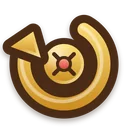
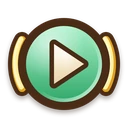
Grafik-Paket 7: Tausch, Ränge, Chat, Tafel und Erfolge (#82)
* Grafik-Paket 7 (Smettbo): Tausch/Ränge/Chat/Erfolge in grafik-staging/paket7, Einbau folgt

* Grafik-Paket 7: Tausch, Ränge, Chat, Tafel und Erfolge.

Die Kleinteile ersetzen die gezeichneten Symbole. Jede Erfolgskategorie hat ein eigenes Bild, und ein fehlendes Bild lässt die Liste stehen.

---------

diff --git a/src/adventure/view.ts b/src/adventure/view.ts
@@ -873,7 +873,7 @@ function codex(save: SaveV2, filter: CodexQuery, shell: ShellFlags): string {
     return `<button type="button" class="mon-card" data-act="dex" data-species="${mon.id}">
       ${face}
       <div>${hidden ? tr(save, 'codex.no', { n: speciesNumber(mon.id) }) : esc(mon.name)}</div>
-      <div class="muted">${dexStatusLabel(status)}${tradedOnly(save, mon.id) ? ` <svg class="trade-mark" data-art="codex/traded" viewBox="0 0 24 24" aria-label="${esc(tr(save, 'trade.traded'))}"><circle cx="12" cy="12" r="9" fill="#f0c14a"/><path d="M7 12h10M13 8l4 4-4 4" fill="none" stroke="#243044" stroke-width="2" stroke-linecap="round"/></svg>` : ''}</div>
+      <div class="muted">${dexStatusLabel(status)}${tradedOnly(save, mon.id) ? ` <img class="trade-mark" data-art="codex/traded" src="${art('codex/traded@2x.png')}" alt="${esc(tr(save, 'trade.traded'))}" title="${esc(tr(save, 'trade.traded'))}"/>` : ''}</div>
     </button>`
   }).join('')
   return `<div class="menu-screen">
@@ -1123,6 +1123,7 @@ function dailyCard(save: SaveV2): string {
   }).join('')
   return `<section class="card panel daily-card" data-art="daily/board">
     <h2>${tr(save, 'daily.title')}</h2>
+    <img class="daily-board" src="${art('daily/board@2x.png')}" alt=""/>
     <p class="muted">${tr(save, 'daily.note')}</p>
     <ul class="daily-tasks">${tasks || `<li class="muted">${tr(save, 'daily.wait')}</li>`}</ul>
     <h3>${tr(save, 'daily.calendar')}</h3>
@@ -1176,6 +1177,17 @@ function hortView(save: SaveV2, now: number, selected: string | null, wheel: Whe
   </div>`
 }
 
+function achieveArt(id: string): UiArtId {
+  if (id.startsWith('win-')) return 'achWins'
+  if (id.startsWith('catch-') || id.startsWith('shiny-')) return 'achFinds'
+  if (id.startsWith('dupe-')) return 'achCollect'
+  if (id.startsWith('badge-')) return 'achBadges'
+  if (id.startsWith('region-') || id.startsWith('master-')) return 'achRegion'
+  if (id.startsWith('type-')) return 'achTypes'
+  if (id.startsWith('dex-') || id.startsWith('seen-')) return 'achCodex'
+  return 'achCare'
+}
+
 function achievementsView(save: SaveV2): string {
   const done = save.claimed.length
   const rows = GOALS.map((goal) => {
@@ -1186,7 +1198,7 @@ function achievementsView(save: SaveV2): string {
     const title = goalTitle(L(save), goal.id, goal.title, typeBit)
     const mark = typeId ? typeIcon(typeId as TypeId) : ''
     return `<article class="list-row achieve ${have ? 'done' : ''}">
-      ${ui('achieve')}<div>${mark}<b>${esc(name)}</b><div class="muted">${have ? tr(save, 'ach.have', { title, frame: goal.frame }) : tr(save, 'ach.open')} · ${goal.gold.toLocaleString(L(save) === 'en' ? 'en' : 'de-DE')} G</div></div>
+      ${ui(achieveArt(goal.id))}<div>${mark}<b>${esc(name)}</b><div class="muted">${have ? tr(save, 'ach.have', { title, frame: goal.frame }) : tr(save, 'ach.open')} · ${goal.gold.toLocaleString(L(save) === 'en' ? 'en' : 'de-DE')} G</div></div>
       ${have ? `<div class="list-actions"><button type="button" data-act="equip-title" data-id="${goal.id}">${ui('equipTitle')}${tr(save, 'ach.titleBtn')}</button><button type="button" data-act="equip-frame" data-id="${goal.id}">${ui('equipFrame')}${tr(save, 'ach.frameBtn')}</button></div>` : ''}
     </article>`
   }).join('')
@@ -1400,8 +1412,8 @@ function guide(save: SaveV2): string {
 }
 
 function placeBadge(place: number): string {
-  const tone = place === 1 ? 'gold' : place === 2 ? 'silver' : place === 3 ? 'bronze' : 'plain'
-  return `<svg class="rank-badge ${tone}" viewBox="0 0 64 64" aria-hidden="true"><circle cx="32" cy="28" r="16"/><path d="M24 42l8 14 8-14"/><text x="32" y="33" text-anchor="middle">${place}</text></svg>`
+  if (place >= 1 && place <= 3) return `<img class="rank-badge" src="${art(`ranks/place-${place}@2x.png`)}" alt="${place}"/>`
+  return `<span class="rank-badge plain"><img src="${art('ranks/place-n@2x.png')}" alt=""/><b>${place}</b></span>`
 }
 
 function frameGlyph(id: string, on: boolean): string {
@@ -1716,7 +1728,7 @@ function tradeCard(card: TradeCard | null, save: SaveV2): string {
   return `<article class="trade-card">
     <b>${esc(card.name)}</b>
     <p>${tr(save, 'trade.rarity', { n: card.rarity })} · ${tr(save, 'trade.level', { n: card.level })}${card.shiny ? ` · ${tr(save, 'trade.shiny')}` : ''}</p>
-    ${card.reason ? `<p class="trade-lock"><svg data-art="trade/lock" viewBox="0 0 32 32" aria-hidden="true"><rect x="8" y="14" width="16" height="12" rx="4" fill="#f0c14a"/><path d="M11 14v-3a5 5 0 0 1 10 0v3" fill="none" stroke="#243044" stroke-width="2"/></svg> ${esc(card.reason)}</p>` : ''}
+    ${card.reason ? `<p class="trade-lock"><img data-art="trade/lock" src="${art('trade/lock@2x.png')}" alt=""/> ${esc(card.reason)}</p>` : ''}
   </article>`
 }
 
@@ -1731,8 +1743,8 @@ function tradeScreen(save: SaveV2, panel: TradePanel | undefined): string {
     <p class="muted">${tr(save, 'trade.lead')}</p>
     ${tradeCard(view.theirs, save)}
     <div class="trade-escrow" data-art="trade/escrow">
-      <svg viewBox="0 0 160 48" aria-hidden="true"><rect x="58" y="8" width="44" height="32" rx="16" fill="#1c2744"/><circle cx="40" cy="24" r="10" fill="#f0c14a"/><circle cx="120" cy="24" r="10" fill="#9ad7ff"/></svg>
-      ${view.phase === 'locked' ? `<p><svg data-art="trade/lock" viewBox="0 0 32 32" aria-hidden="true"><rect x="8" y="14" width="16" height="12" rx="4" fill="#f0c14a"/><path d="M11 14v-3a5 5 0 0 1 10 0v3" fill="none" stroke="#243044" stroke-width="2"/></svg> ${tr(save, 'trade.wait', { n: seconds })}</p>` : ''}
+      <img class="escrow-art" src="${art('trade/escrow@2x.png')}" alt=""/>
+      ${view.phase === 'locked' ? `<p><img data-art="trade/lock" src="${art('trade/lock@2x.png')}" alt=""/> ${tr(save, 'trade.wait', { n: seconds })}</p>` : ''}
     </div>
     ${tradeCard(view.mine, save)}
     <label class="friend-search">${tr(save, 'trade.code')}<input id="trade-code" maxlength="8"/></label>
@@ -1808,7 +1820,7 @@ function chatScreen(save: SaveV2, panel: ChatPanel | undefined): string {
       <button type="button" data-act="guild-phrase" data-id="hallo">${tr(save, 'guild.phrase')}</button>
     </div></div></div>`
   }
-  const lines = view.lines.map((line) => `<p class="chat-line"><b>${esc(line.label)}</b> ${esc(line.body)} <button type="button" data-act="chat-report" data-id="${esc(line.label)}">${tr(save, 'chat.report')}</button> <button type="button" data-act="chat-mute" data-id="${esc(line.label)}">${tr(save, 'chat.mute')}</button></p>`).join('')
+  const lines = view.lines.map((line) => `<p class="chat-line"><b>${esc(line.label)}</b> ${esc(line.body)} <button type="button" data-act="chat-report" data-id="${esc(line.label)}"><img class="chat-icon" src="${art('chat/report@2x.png')}" alt=""/>${tr(save, 'chat.report')}</button> <button type="button" data-act="chat-mute" data-id="${esc(line.label)}"><img class="chat-icon" src="${art('chat/mute@2x.png')}" alt=""/>${tr(save, 'chat.mute')}</button></p>`).join('')
   return `<div class="menu-screen chat-screen"><div class="menu-scroll"><div class="card panel">
     <h2>${tr(save, 'nav.chat')}</h2>
     ${lines || `<p class="muted">${tr(save, 'chat.empty')}</p>`}
@@ -1816,7 +1828,7 @@ function chatScreen(save: SaveV2, panel: ChatPanel | undefined): string {
   </div></div>
   <form class="chat-form" data-act="chat-form">
     <input id="chat-text" maxlength="200" autocomplete="off"/>
-    <button type="submit" class="primary" data-act="chat-send">${tr(save, 'chat.send')}</button>
+    <button type="submit" class="primary" data-act="chat-send"><img class="chat-icon" src="${art('chat/send@2x.png')}" alt=""/>${tr(save, 'chat.send')}</button>
   </form></div>`
 }
 

diff --git a/src/adventure/adventure.css b/src/adventure/adventure.css
@@ -1717,8 +1717,12 @@ a.ghost { color: inherit; text-decoration: none; display: inline-block; }
 .m-plate.m-gold { box-shadow: inset 0 0 0 4px #f0c14a; }
 .m-plate.m-shine { background: radial-gradient(circle, rgba(255, 228, 150, 0.55), transparent 72%); }
 .m-stars { display: flex; gap: 2px; height: 18px; margin-top: 2px; }
-.m-star { width: 16px; height: 16px; fill: #d9d0c3; }
-.m-star.on { fill: #f0c14a; }
+.m-star { width: 16px; height: 16px; }
+.mon-card img.m-star,
+.team-grid .mon-card img.m-star,
+.hort-grid .mon-card img.m-star,
+.vlist-window .mon-card img.m-star,
+.codex-grid .mon-card img.m-star { width: 16px; height: 16px; object-fit: contain; }
 .m-bar { margin-top: 8px; }
 .mastery-toast {
   position: absolute;
@@ -1740,12 +1744,9 @@ a.ghost { color: inherit; text-decoration: none; display: inline-block; }
 .rank-tabs button.on { background: #f0c14a; color: #1a1208; }
 .rank-row { display: flex; gap: 16px; align-items: center; border-radius: 22px; padding: 12px 16px; background: #121a30; margin: 8px 0; }
 .rank-row.is-me { box-shadow: inset 0 0 0 4px #f0c14a; background: #243156; }
-.rank-badge { width: 64px; height: 64px; flex: 0 0 auto; }
-.rank-badge circle, .rank-badge path { fill: #8d97ad; }
-.rank-badge.bronze circle, .rank-badge.bronze path { fill: #b87333; }
-.rank-badge.silver circle, .rank-badge.silver path { fill: #d5dee8; }
-.rank-badge.gold circle, .rank-badge.gold path { fill: #f0c14a; }
-.rank-badge text { fill: #1a1208; font-size: 16px; font-weight: 800; }
+.rank-badge { width: 64px; height: 64px; position: relative; flex: 0 0 auto; }
+.rank-badge.plain img { width: 100%; height: 100%; }
+.rank-badge.plain b { position: absolute; left: 0; right: 0; top: 52%; text-align: center; font: 800 16px Fredoka, sans-serif; color: #4a2c17; }
 .rank-frames { display: grid; grid-template-columns: repeat(3, 1fr); gap: 12px; }
 .rank-honor { display: flex; flex-direction: column; align-items: center; gap: 6px; text-align: center; }
 .rank-frame { width: 88px; height: 88px; object-fit: contain; opacity: 0.35; }
@@ -1780,6 +1781,7 @@ a.ghost { color: inherit; text-decoration: none; display: inline-block; }
 .look-wrap .daily-frame { position: absolute; inset: -15%; width: 130%; height: 130%; pointer-events: none; object-fit: contain; }
 .look-face-clip { display: block; width: 100%; height: 100%; clip-path: circle(46.8%); }
 .daily-card { margin-bottom: 12px; }
+.daily-board { display: block; width: 100%; max-width: 360px; height: auto; margin: 4px auto 8px; }
 .daily-tasks, .daily-days { list-style: none; margin: 0; padding: 0; }
 .daily-task, .daily-day {
   display: flex; flex-wrap: wrap; gap: 8px; align-items: baseline;
@@ -1831,12 +1833,14 @@ a.ghost { color: inherit; text-decoration: none; display: inline-block; }
 .trade-card { border-radius: 28px; background: #121a30; padding: 16px; }
 .trade-card.empty { min-height: 88px; }
 .trade-escrow { display: flex; flex-direction: column; align-items: center; }
-.trade-escrow svg { width: 160px; height: 48px; }
+.trade-escrow .escrow-art { width: 160px; height: 48px; }
 .trade-lock, .trade-escrow p { display: flex; align-items: center; gap: 8px; }
-.trade-lock svg, .trade-escrow p svg { width: 28px; height: 28px; }
+.trade-lock img, .trade-escrow p img { width: 28px; height: 28px; }
 .trade-mark { width: 18px; height: 18px; vertical-align: middle; }
+.codex-grid .mon-card img.trade-mark,
+.mon-card img.trade-mark { width: 18px; height: 18px; object-fit: contain; }
 @media (prefers-reduced-motion: no-preference) {
-  .trade-escrow svg { animation: trade-slide 1.6s ease-in-out infinite; }
+  .trade-escrow .escrow-art { animation: trade-slide 1.6s ease-in-out infinite; }
 }
 @keyframes trade-slide { 0%, 100% { transform: translateY(0); } 50% { transform: translateY(6px); } }
 .guild-board { display: flex; flex-direction: column; gap: 12px; align-items: flex-start; }
@@ -1857,3 +1861,5 @@ a.ghost { color: inherit; text-decoration: none; display: inline-block; }
 .chat-form { display: flex; gap: 8px; padding: 12px; }
 .chat-form input { flex: 1; border: 0; border-radius: 18px; padding: 12px 14px; background: #10182c; color: inherit; }
 .chat-line { border-radius: 18px; background: #121a30; padding: 10px 12px; }
+.chat-icon { width: 20px; height: 20px; vertical-align: -4px; margin-right: 4px; }
+.chat-form .chat-icon { width: 24px; height: 24px; }

diff --git a/src/adventure/uiArt.test.ts b/src/adventure/uiArt.test.ts
@@ -1,7 +1,10 @@
 import { existsSync } from 'node:fs'
 import { describe, expect, it } from 'vitest'
+import { GOALS } from './achievements'
 import { UI_ART } from './uiArt'
 import { SHOP_ART } from './shopOffer'
+import { beginAdventure } from './save'
+import { gameHtml, type CodexQuery, type PcQuery } from './view'
 
 describe('ui art placeholders', () => {
   it('ships a file for every path the screens already ask for', () => {
@@ -11,5 +14,23 @@ describe('ui art placeholders', () => {
     for (const path of Object.values(SHOP_ART.fruit)) {
       expect(existsSync(new URL(`../../public/assets/${path}`, import.meta.url))).toBe(true)
     }
+    for (const key of ['achWins', 'achFinds', 'achCollect', 'achBadges', 'achRegion', 'achTypes', 'achCodex', 'achCare'] as const) {
+      expect(existsSync(new URL(`../../public/assets/${UI_ART[key]}`, import.meta.url))).toBe(true)
+    }
+  })
+
+  it('picks an achievement picture for every goal and keeps the screens when a file is only a path', () => {
+    const save = beginAdventure('Ada', { skin: 0, hair: 0, color: 0 }, 'm01', 1_000)
+    const pc: PcQuery = { q: '', type: '', rarity: '', shiny: '', sort: 'newest', dir: -1 }
+    const dex: CodexQuery = { q: '', type: '', rarity: '', shiny: '' }
+    const html = gameHtml(save, 'achievements', 1_000, pc, dex, null, false, false, null)
+    expect(html).toContain('ui/ach_wins.webp')
+    expect(html).toContain('ui/ach_finds.webp')
+    expect(html).toContain('ui/ach_care.webp')
+    expect(GOALS.length).toBeGreaterThan(8)
+    const ranks = gameHtml(save, 'ranks', 1_000, pc, dex, null, false, false, null)
+    expect(ranks).not.toContain('ranks/place-0')
+    const daily = gameHtml(save, 'activities', 1_000, pc, dex, null, false, false, null)
+    expect(daily).toContain('daily/board@2x.png')
   })
 })

diff --git a/src/adventure/mastery.ts b/src/adventure/mastery.ts
@@ -1,5 +1,5 @@
 import { species } from '../data'
-import { OFFLINE_EXP_FACTOR } from './const'
+import { OFFLINE_EXP_FACTOR, assetPath } from './const'
 import { t } from './i18n'
 import type { SaveV2 } from './types'
 
@@ -89,7 +89,8 @@ export function masteryStarRow(level: number): string {
   const lit = Math.max(0, Math.min(5, Math.floor(level) || 0))
   const stars = Array.from({ length: 5 }, (_, index) => {
     const on = index < lit ? ' on' : ''
-    return `<svg class="m-star${on}" viewBox="0 0 24 24" aria-hidden="true"><path d="M12 2.6l2.7 5.6 6.1.7-4.6 4.1 1.3 6.1L12 16.2 6.5 19.1l1.3-6.1L3.2 8.9l6.1-.7z"/></svg>`
+    const src = assetPath(index < lit ? 'mastery/star_on@2x.png' : 'mastery/star_off@2x.png', import.meta.env.BASE_URL || '/')
+    return `<img class="m-star${on}" src="${src}" alt=""/>`
   }).join('')
   return `<span class="m-stars" data-level="${lit}" aria-hidden="true">${stars}</span>`
 }

diff --git a/src/adventure/uiArt.ts b/src/adventure/uiArt.ts
@@ -65,6 +65,14 @@ export const UI_ART = {
   reset: 'ui/reset.webp',
   guide: 'ui/guide.webp',
   close: 'ui/close.webp',
+  achWins: 'ui/ach_wins.webp',
+  achFinds: 'ui/ach_finds.webp',
+  achCollect: 'ui/ach_collect.webp',
+  achBadges: 'ui/ach_badges.webp',
+  achRegion: 'ui/ach_region.webp',
+  achTypes: 'ui/ach_types.webp',
+  achCodex: 'ui/ach_codex.webp',
+  achCare: 'ui/ach_care.webp',
   moreRanks: 'ui/nav_ranks.webp',
   moreTree: 'ui/nav_tree.webp',
   moreTower: 'ui/nav_tower.webp',

diff --git a/docs/grafik-paket7-einbau.md b/docs/grafik-paket7-einbau.md
@@ -1,0 +1,80 @@
+---
+datum: 2026-11-19
+quelle: Smettbo · Grafik-Paket 7 (Feinschliff Kleinteile); Repo-Stand d67f904 (frischer Clone, 19.11. 01:16 MEZ)
+status: geliefert, Einbau offen (Porygon, 1 PR)
+---
+
+# Grafik-Paket 7 – Einbau
+
+Vorschau `assets/preview_paket7.jpg`, Skript `assets/raw_src/paket7/draw_paket7.py` (+ `preview_p7.py`), alte Fassungen in `raw_src/paket7/old/`. Alles per Code gezeichnet (softlib), Medaillen-Ziffern in Fredoka Bold (OFL). `@2x` = doppelte Größe für scharfe Anzeige.
+
+## 1. Dateien → Repo (`public/assets/…`)
+
+| Quelle `/workspace/webgame/assets/` | Ziel | Größe |
+|---|---|---|
+| `trade/lock(.png,@2x)` | `trade/` | 32 / 64 |
+| `trade/escrow(.png,@2x)` | `trade/` | 160×48 / 320×96 |
+| `codex/traded(.png,@2x)` | `codex/` | 24 / 48 |
+| `mastery/star_on`, `star_off` (+@2x) | `mastery/` | 24 / 48 |
+| `ranks/place-1`, `-2`, `-3` (mit Ziffer), `place-n` (ohne Ziffer) (+@2x) | `ranks/` | 64 / 128 |
+| `chat/report`, `mute`, `send` (+@2x) | `chat/` | 32 / 64 |
+| `daily/board(.png,@2x)` | `daily/` | 360×120 / 720×240 |
+| `ui/webp/ach_{wins,finds,collect,badges,region,types,codex,care}.webp` (PNG-Master `ui/ach_*.png`) | `ui/` | 128 |
+| `ui/webp/{spin,road_chest,region}.webp` | `ui/` (**ersetzt**, gleiche Keys) | 128 |
+| `icons/type_dragon.png` (256), `type_dragon_128.png` | `icons/` (**ersetzt**) | – |
+
+Reiner Dateitausch ohne Code: `spin`, `road_chest`, `region`, `type_dragon`. `home/` hat keine Drachen-Größe.
+
+## 2. Code-Änderungen
+
+**uiArt.ts** (nach `close`, Zeile 67) – nötig, weil `uiArt.test.ts` jede Datei prüft:
+```ts
+  achWins: 'ui/ach_wins.webp', achFinds: 'ui/ach_finds.webp', achCollect: 'ui/ach_collect.webp',
+  achBadges: 'ui/ach_badges.webp', achRegion: 'ui/ach_region.webp', achTypes: 'ui/ach_types.webp',
+  achCodex: 'ui/ach_codex.webp', achCare: 'ui/ach_care.webp',
+```
+
+**Erfolge** `view.ts:1208` `${ui('achieve')}` → `${ui(achieveArt(goal.id))}` mit
+```ts
+function achieveArt(id: string): UiArtId {
+  if (id.startsWith('win-')) return 'achWins'
+  if (id.startsWith('catch-') || id.startsWith('shiny-')) return 'achFinds'
+  if (id.startsWith('dupe-')) return 'achCollect'
+  if (id.startsWith('badge-')) return 'achBadges'
+  if (id.startsWith('region-') || id.startsWith('master-')) return 'achRegion'
+  if (id.startsWith('type-')) return 'achTypes'
+  if (id.startsWith('dex-') || id.startsWith('seen-')) return 'achCodex'
+  return 'achCare' // egg-, hort-, hort-guest, fruit-, crystal-, level-, team-
+}
+```
+`ui/achieve.webp` bleibt für den Wappen-Flug (app.ts:819-822, 2435-2438) bis Paket 6.
+
+**Getauscht-Marke** `view.ts:885`: `<svg class="trade-mark" …>…</svg>` → `<img class="trade-mark" src="${art('codex/traded@2x.png')}" alt="${esc(tr(save, 'trade.traded'))}" title="${esc(tr(save, 'trade.traded'))}"/>`. CSS adventure.css:1826 passt (18 px).
+
+**Schloss** `view.ts:1775` und `:1791`: `<svg data-art="trade/lock" …>…</svg>` → `<img data-art="trade/lock" src="${art('trade/lock@2x.png')}" alt=""/>`. CSS :1825 `.trade-lock svg, .trade-escrow p svg` → `img`.
+
+**Treuhand** `view.ts:1790`: `<svg viewBox="0 0 160 48">…</svg>` → `<img class="escrow-art" src="${art('trade/escrow@2x.png')}" alt=""/>`. CSS :1823 und :1828 `.trade-escrow svg` → `.trade-escrow .escrow-art` (160×48, Animation bleibt).
+
+**Meisterschafts-Sterne** `mastery.ts:92`: `import { assetPath } from './const'` ergänzen und
+```ts
+const src = assetPath(index < lit ? 'mastery/star_on@2x.png' : 'mastery/star_off@2x.png', import.meta.env.BASE_URL || '/')
+return `<img class="m-star${on}" src="${src}" alt=""/>`
+```
+CSS :1717-1718: `fill` entfernen, `.m-star { width: 16px; height: 16px; }`.
+
+**Platz-Medaille** `view.ts:1421-1424`:
+```ts
+function placeBadge(place: number): string {
+  if (place >= 1 && place <= 3) return `<img class="rank-badge" src="${art(`ranks/place-${place}@2x.png`)}" alt="${place}"/>`
+  return `<span class="rank-badge plain"><img src="${art('ranks/place-n@2x.png')}" alt=""/><b>${place}</b></span>`
+}
+```
+CSS :1740-1745 ersetzen: `.rank-badge { width: 64px; height: 64px; position: relative; flex: 0 0 auto; } .rank-badge.plain img { width: 100%; } .rank-badge.plain b { position: absolute; left: 0; right: 0; top: 50%; text-align: center; font: 800 16px Fredoka, sans-serif; color: #4a2c17; }` (Ziffer sitzt im unteren Kreis, ggf. `top: 52%`).
+
+**Tages-Tafel** `view.ts:1144` (`data-art="daily/board"`): nach `<h2>` einfügen `<img class="daily-board" src="${art('daily/board@2x.png')}" alt=""/>`. CSS: `.daily-board { display: block; width: 100%; max-width: 360px; height: auto; margin: 4px auto 8px; }`.
+
+**Chat** `view.ts:1854`: Buttons `chat-report` / `chat-mute` → Bild davor `<img class="chat-icon" src="${art('chat/report@2x.png')}" alt=""/>` bzw. `chat/mute@2x.png`; `view.ts:1862` `chat-send` → `chat/send@2x.png`. CSS: `.chat-icon { width: 20px; height: 20px; vertical-align: -4px; margin-right: 4px; }` (Senden-Knopf 24 px).
+
+## 3. Prüfpunkte
+- spin und reset bei 48 px: spin ist jetzt ein grüner runder Start-Knopf mit Dreieck, reset bleibt der rote Kreispfeil → klar unterscheidbar (Vorschau unten rechts, 48 und 32 px).
+- Drache: Hörner zeigen nach hinten, lange Schnauze mit Nasenhöcker und Zahn, Nackenstacheln, Flügel-Andeutung links.
